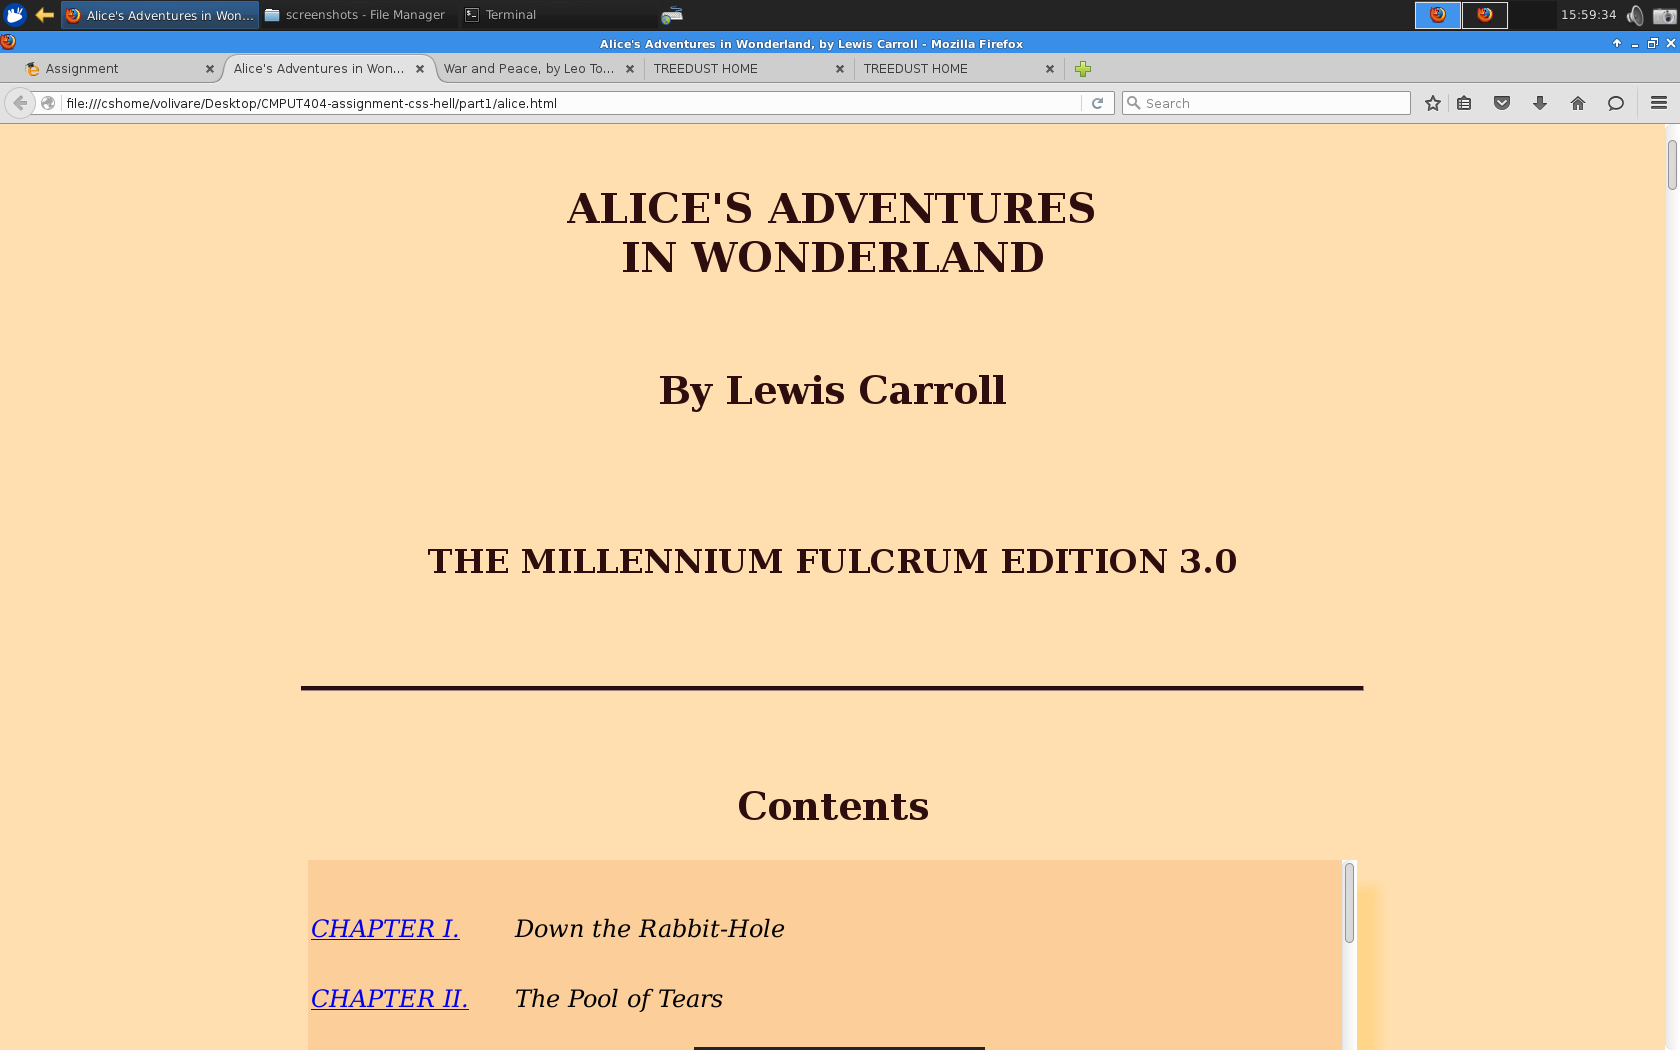
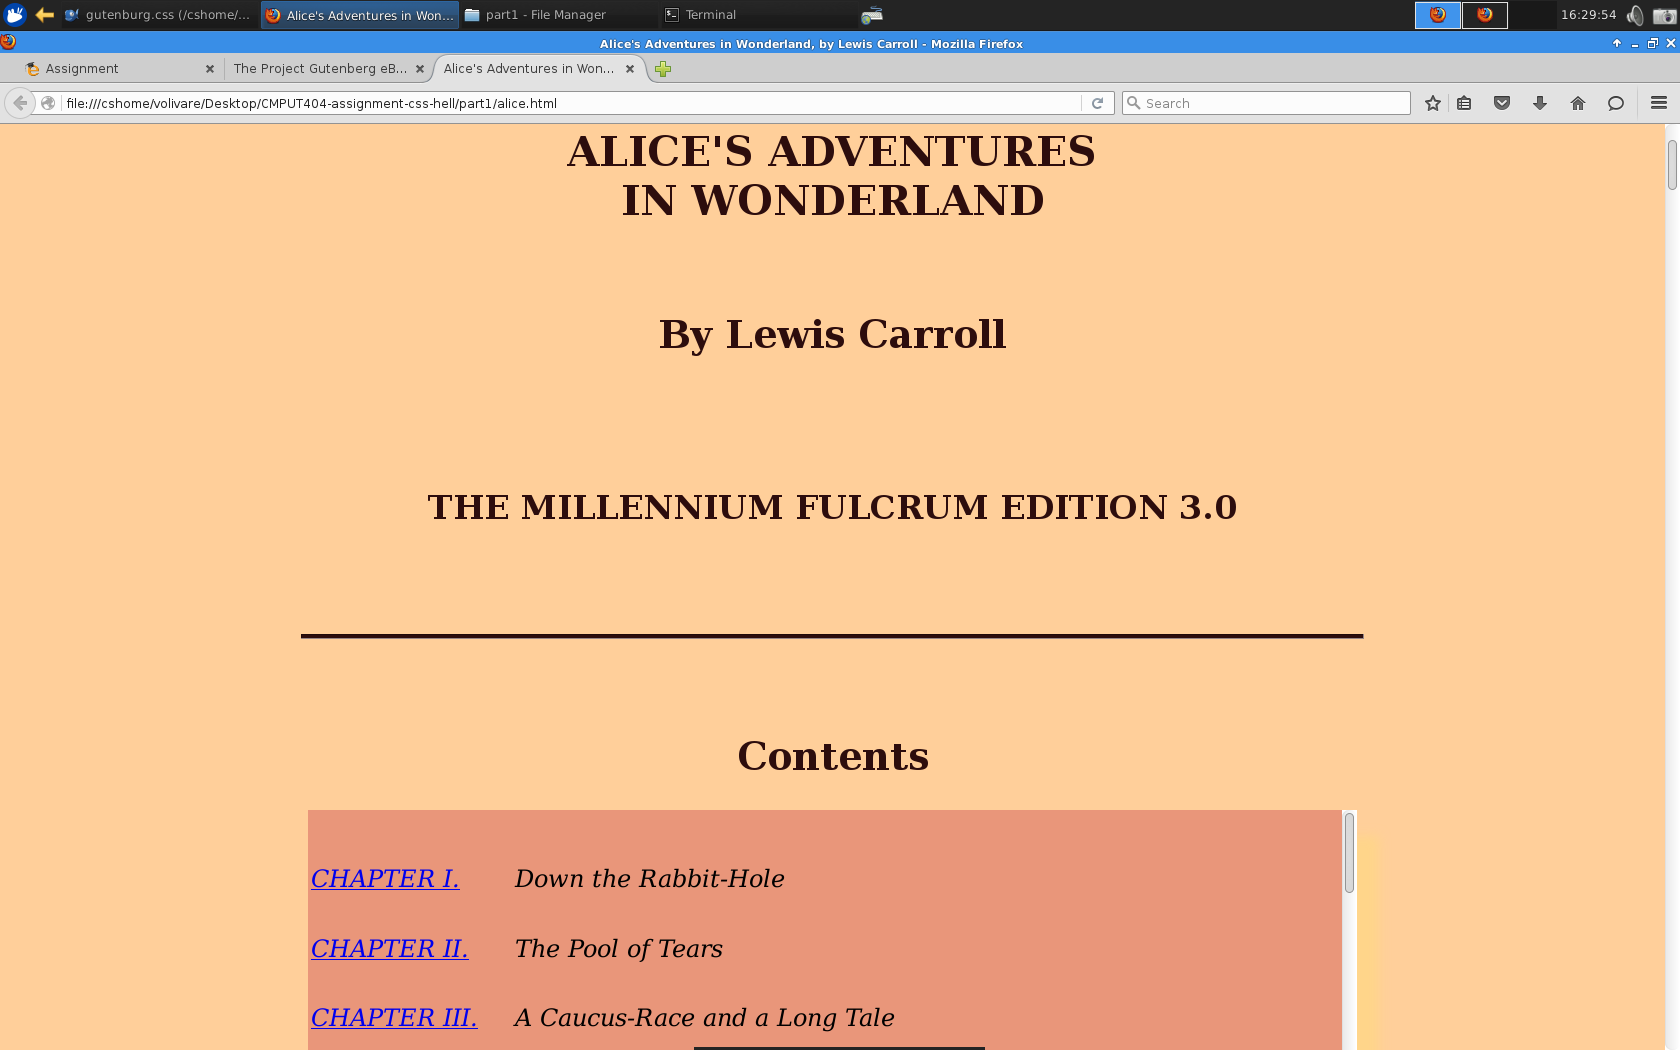
color changes

diff --git a/part1/gutenburg.css b/part1/gutenburg.css
@@ -48,7 +48,7 @@ table, blockquote, TABLE.bold {
 	margin-left: 15%;
 	margin-right: 15%;
 	text-align: justify;
-	background-color: #fccf9a;
+	background-color: darksalmon;
 	box-shadow: 1.4em 1.6em 0.6em #ffd58a;
 }
 
